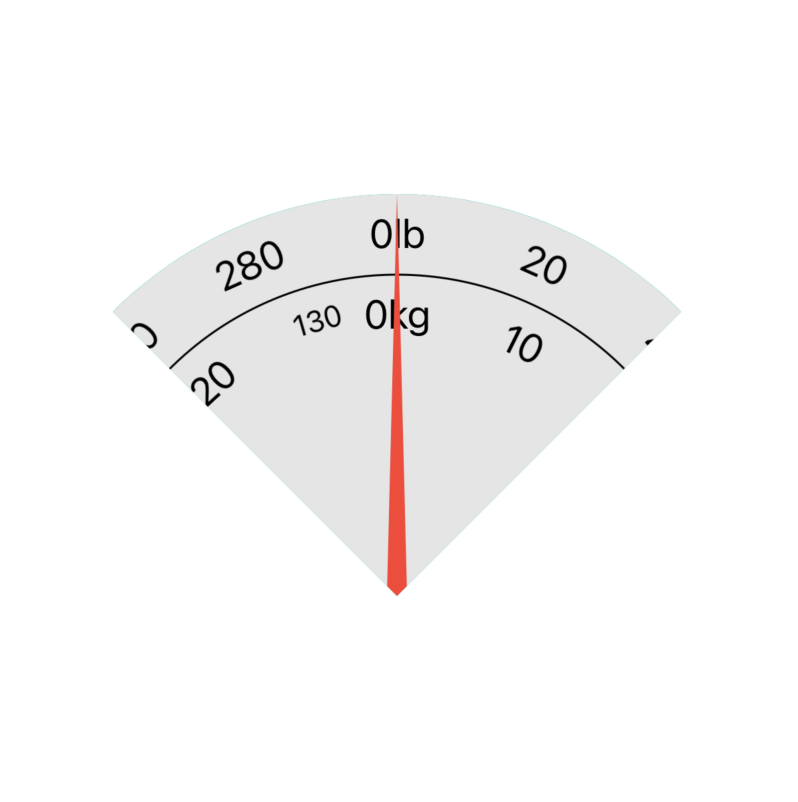
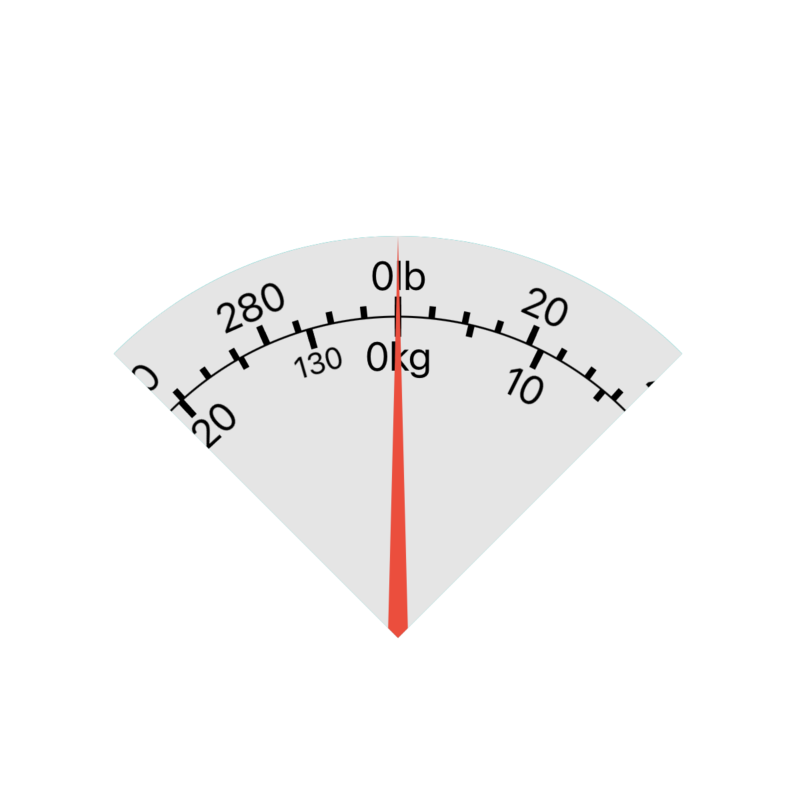
begin colors sample

Changed region(s): [[0.1203, 0.2182, 0.8722, 0.8105]]

diff --git a/Sources/SbjGauge/Colors/Colors.swift b/Sources/SbjGauge/Colors/Colors.swift
@@ -1,0 +1,62 @@
+//
+//  ColorsView.swift
+//  SbjGauge
+//
+//  Created by David Giovannini on 4/20/25.
+//
+
+import SwiftUI
+
+public enum Colors {
+	public struct ColorsView: View {
+		let model: Model = .init()
+
+		public init() {
+		}
+
+		public var body: some View {
+			ZStackSquare() { geom in
+				Standard.RadialTickView(geom, model, model.ticks[0]) { notch in
+					Rectangle().fill(Color.allCases[notch.idx])
+					.frame(width: 10, height: 10)
+				}
+			}
+		}
+	}
+
+	struct Model: ValuesModel & RadialModel & TickModel {
+		var values: [Int] = [0]
+		var range: ClosedRange<Int> = 0...Color.allCases.count
+		var angles: ClosedRange<Angle> = .degrees(0) ... .degrees(360)
+		var ticks: [Tick<Int>] = [.init(1)]
+	}
+}
+
+extension Color: @retroactive CaseIterable {
+	public static var allCases: [Color] {
+		return [
+			Color.red,
+			Color.orange,
+			Color.yellow,
+			Color.green,
+			Color.mint,
+			Color.teal,
+			Color.cyan,
+			Color.blue,
+			Color.indigo,
+			Color.purple,
+			Color.pink,
+			Color.brown,
+			Color.white,
+			Color.gray,
+			Color.black,
+			Color.clear,
+			Color.primary,
+			Color.secondary,
+		]
+	}
+}
+
+#Preview {
+	Colors.ColorsView()
+}

diff --git a/Sources/SbjGauge/Views/SwiftUI+.swift b/Sources/SbjGauge/Views/SwiftUI+.swift
@@ -58,31 +58,6 @@ extension Color {
 	}
 }
 
-extension Color: @retroactive CaseIterable {
-	public static var allCases: [Color] {
-		return [
-			Color.red,
-			Color.orange,
-			Color.yellow,
-			Color.green,
-			Color.mint,
-			Color.teal,
-			Color.cyan,
-			Color.blue,
-			Color.indigo,
-			Color.purple,
-			Color.pink,
-			Color.brown,
-			Color.white,
-			Color.gray,
-			Color.black,
-			Color.clear,
-			Color.primary,
-			Color.secondary,
-		]
-	}
-}
-
 extension View {
 	var isPreview: Bool {
 		return ProcessInfo.processInfo.environment["XCODE_RUNNING_FOR_PREVIEWS"] == "1"

diff --git a/Playgrounds/BuildYourOwn.playground/Sources/TemplateView.swift b/Playgrounds/BuildYourOwn.playground/Sources/TemplateView.swift
@@ -17,10 +17,8 @@ public enum Template {
 				SwirlView()
 				Clock.SecondsHandView(geom: geom)
 				Standard.RadialNeedlesView(geom: geom, model: model) { needle in
-					Standard.RadialTickView(geom, model, model.ticks[0]) { _ in
+					Standard.RadialTickView(geom, model, model.ticks[0]) { notch in
 						Standard.TickLineView(geom: geom)
-					}
-					Standard.RadialTickView(geom, model, model.ticks[1]) { notch in
 						Standard.TickTextView(geom: geom,
 							text: Int(notch.value).description,
 							length: 0.2)

diff --git a/Sources/SbjGauge/Standard/RadialTickView.swift b/Sources/SbjGauge/Standard/RadialTickView.swift
@@ -45,7 +45,7 @@ extension Standard {
 	ZStackSquare() { geom in
 		Circle().stroke()
 		Circle().stroke().frame(width: geom.width(0.8))
-		Standard.RadialTickView(geom, StandardModel(standard: 0), .init(), radius: 0.8) { notch in
+		Standard.RadialTickView(geom, StandardModel(standard: 0), .init(1.0), radius: 0.8) { notch in
 			Standard.TickLineView(geom: geom,
 				width: 0.05,
 				offset: -0.1)

diff --git a/Sources/SbjGauge/Standard/StandardModel.swift b/Sources/SbjGauge/Standard/StandardModel.swift
@@ -17,6 +17,6 @@ public struct StandardModel: ValuesModel & RadialModel & TickModel & SpanningMod
 	public var range: ClosedRange<Value>
 	public var values: [Value]
 	public var angles: ClosedRange<Angle> = .degrees(0) ... .degrees(360)
-	public var ticks: [Tick<Value>] = [.init()]
+	public var ticks: [Tick<Value>] = [.init(1.0)]
 	public var spans: [Span<Value>] = []
 }

diff --git a/Sources/SbjGauge/Model/GaugeModel.swift b/Sources/SbjGauge/Model/GaugeModel.swift
@@ -19,6 +19,11 @@ extension Double : GaugeValue {
 	public var toDouble: Double { self }
 }
 
+extension Int : GaugeValue {
+	public init(double: Double) { self = Int(double) }
+	public var toDouble: Double { Double(self) }
+}
+
 public protocol GaugeModel {
 	associatedtype Value: GaugeValue = Double
 	var range: ClosedRange<Value> { get set }

diff --git a/Sources/SbjGauge/Model/TickModel.swift b/Sources/SbjGauge/Model/TickModel.swift
@@ -20,7 +20,7 @@ public struct Tick<Value: GaugeValue> {
 	public let filter: (Value, Int) -> Bool
 
 	public init(
-		_ increment: Value = 1.0,
+		_ increment: Value,
 		ends: TickEnds = .start,
 		filter: @escaping (Value, Int) -> Bool = { _, _ in true } ) {
 			self.increment = increment

diff --git a/Sources/SbjGauge/Model/RadialModel.swift b/Sources/SbjGauge/Model/RadialModel.swift
@@ -17,6 +17,8 @@ extension Angle : GaugeValue {
 }
 
 public extension RadialModel {
+	var angles: ClosedRange<Angle> { .degrees(0) ... .degrees(360) }
+
 	func angle(value: Value) -> Angle {
 		angles.value(range.norm(value))
 	}

diff --git a/Playgrounds/BuiltIn.playground/Contents.swift b/Playgrounds/BuiltIn.playground/Contents.swift
@@ -16,6 +16,8 @@ PlaygroundPage.current.setLiveView(
 		SbjGauge.UpTo11.UpTo11View()
 		Text("Scale").bold()
 		SbjGauge.Scale.ScaleView()
+		Text("Colors").bold()
+		SbjGauge.Colors.ColorsView()
 	}
 	.frame(width: 300)
 )
